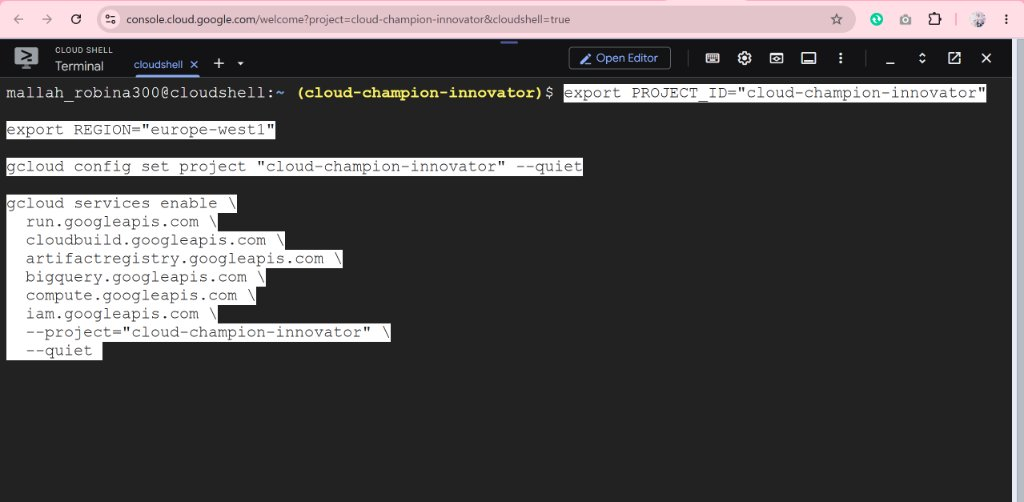
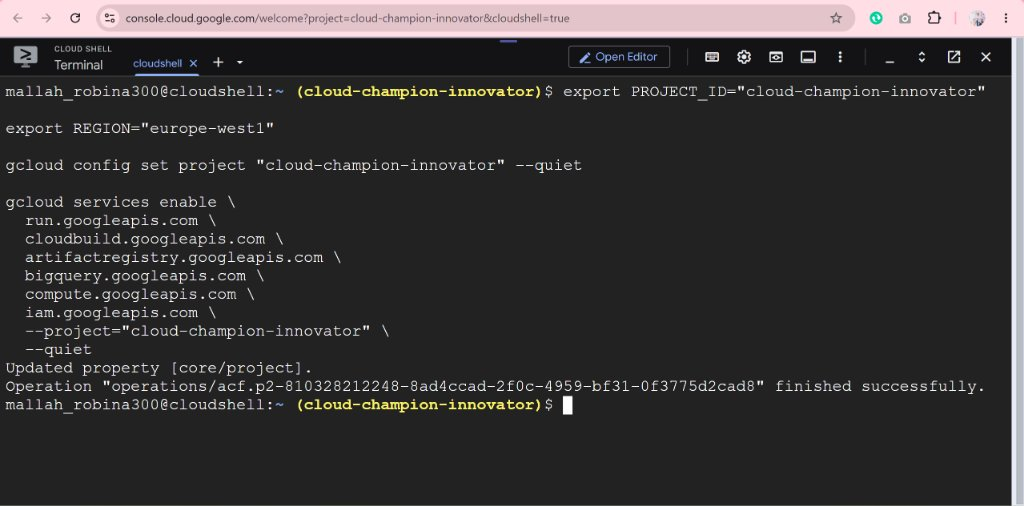
docs: switch Codelab to 100% from-scratch agy workflow + add git init Cloud Shell screenshot

diff --git a/docs/index.html b/docs/index.html
@@ -152,14 +152,23 @@ gcloud services enable \
   --project=&#34;${PROJECT_ID}&#34; \
   --quiet
 </code></pre>
-<p class="image-container"><img alt="Enabling Sovereign RAG APIs in Cloud Shell" src="img\\1b0e94a08cde3bca.jpg"></p>
-<h2 is-upgraded>Install the Google Cloud Developer Plugin &amp; Launch Antigravity CLI</h2>
-<p>Verify that <strong>Antigravity CLI (</strong></p>
+<p class="image-container"><img alt="Enabling Sovereign RAG APIs in Cloud Shell" src="img\\bccb00d1cd31fa65.jpg"></p>
+<h2 is-upgraded>Create Your Own Fresh Project Repository &amp; Launch Antigravity CLI</h2>
+<p>Instead of cloning pre-written code, you will build your <strong>own Sovereign RAG repository from scratch</strong> using the <strong>Google Antigravity CLI (</strong></p>
 <p><strong><code>agy</code></strong></p>
-<p><strong>)</strong> is ready in your shell environment and start an interactive session:</p>
-<pre><code language="language-bash" class="language-bash">agy --help
+<p><strong>)</strong>! Create a clean directory, initialize Git, install <code>agy</code> (if not already pre-installed in Cloud Shell), and launch the interactive agent:</p>
+<pre><code language="language-bash" class="language-bash">mkdir signbridge-sovereign-rag
+cd signbridge-sovereign-rag
+git init -b main
+
+# Install Google Antigravity CLI and ensure ~/.local/bin is on PATH
+curl -fsSL https://antigravity.google/cli/install.sh | bash
+export PATH=&#34;$HOME/.local/bin:$PATH&#34;
+
+# Launch Antigravity inside your empty workspace
 agy
 </code></pre>
+<p class="image-container"><img alt="Initializing Your Fresh SignBridge Git Workspace in Cloud Shell" src="img\\c7204571c74711be.jpg"></p>
 <aside class="special"><p><strong>Tip:</strong> Inside the <code>agy</code> terminal interface, you can type <code>/help</code> at any time to inspect built-in slash commands such as <code>/grill-me</code>, <code>/plan</code>, and <code>/compact</code>.</p>
 </aside>
 
@@ -201,14 +210,20 @@ Interview me on authentication boundaries, cold-start mitigation, and BigQuery s
     
       <google-codelab-step label="Generate the RAG Application" duration="6">
         <p class="image-container"><img alt="SignBridge Sovereign RAG Hero" src="img\\835f46d24584b384.jpg"></p>
-<p>Clone or generate the <code>signbridge-sovereign-rag-agy</code> workspace and explore the four core modules:</p>
-<pre><code language="language-bash" class="language-bash">git clone https://github.com/RobinaMirbahar/signbridge-sovereign-rag-agy.git
-cd signbridge-sovereign-rag-agy
-chmod +x setup_env.sh embedding_model/cloud_run.sh llm/cloud_run.sh orchestration/cloud_run.sh cleanup.sh
+<p>Once you are happy with the Implementation Plan produced during <code>/grill-me</code>, instruct <strong>Antigravity (</strong></p>
+<p><strong><code>agy</code></strong></p>
+<p><strong>)</strong> to generate your complete application <strong>from scratch</strong> inside your <code>signbridge-sovereign-rag</code> folder:</p>
+<pre><code language="language-text" class="language-text">Proceed with the implementation plan and scaffold the complete SignBridge Sovereign Sign-Language RAG repository from scratch in this directory:
+1. vector_store/: BigQuery Vector Search DDL, COSINE VECTOR_SEARCH query helper, init_db.py, and an 8-entry ASL &amp; PSL broadcast/corporate sign lexicon JSON (covering breaking flood news tickers, embargoed Q3 corporate earnings &amp; M&amp;A town halls, 150 bps financial TV desks, &#34;off the record&#34; press idioms, and clinical/ADA protocols).
+2. embedding_model/: Cloud Run Dockerfile + FastAPI service baking in EmbeddingGemma 2 via Ollama (/embed returning 768-d vectors) + cloud_run.sh (--no-allow-unauthenticated).
+3. llm/: Cloud Run Dockerfile baking in open-weights Gemma 4 via Ollama + cloud_run.sh that checks regional NVIDIA_L4 GPU quota and deploys with --gpu=1 --gpu-type=nvidia-l4 (or falls back to --cpu=8 --memory=16Gi when GPU quota is 0).
+4. orchestration/: FastAPI backend (/api/compare, /api/corpus, /health) + colorful Side-by-Side Web UI comparing Baseline Ungrounded LLM vs. Sovereign BigQuery-Grounded SignBridge + root Dockerfile + cloud_run.sh.
+5. tests/test_signbridge.py (automated pytest suite) and cleanup.sh for tearing down Cloud Run &amp; BigQuery resources.
 </code></pre>
-<h2 is-upgraded>Explore the Generated Codebase</h2>
+<h2 is-upgraded>Explore Your Newly Generated Codebase</h2>
+<p>Verify the modular directory tree Antigravity created in your workspace:</p>
 <ol type="1">
-<li><strong>Broadcast &amp; Corporate Sign Corpus (</strong><strong><code>vector_store/sign_lexicon_corpus.json</code></strong><strong>):</strong> Contains curated ASL &amp; PSL entries covering breaking flood tickers (<code>SL-NEWS-001</code>), embargoed Q3 earnings &amp; M&amp;A town halls (<code>SL-CORP-002</code>), Central Bank 150 bps rate cuts (<code>SL-MEDIA-003</code>), press-room <em>&#34;off the record&#34;</em> idioms (<code>SL-MEDIA-004</code>), and HIPAA/ADA protocols.</li>
+<li><strong>Broadcast &amp; Corporate Sign Corpus (</strong><strong><code>vector_store/sign_lexicon_corpus.json</code></strong><strong>):</strong> Curated ASL &amp; PSL entries covering breaking flood tickers, embargoed Q3 earnings &amp; M&amp;A town halls, Central Bank <code>150 bps</code> rate cuts, and press-room <em>&#34;off the record&#34;</em> idioms.</li>
 <li><strong>BigQuery Vector Search Query (</strong><strong><code>vector_store/init_db.py</code></strong><strong>):</strong> Uses native <code>VECTOR_SEARCH</code> with <code>COSINE</code> distance: <pre><code language="language-sql" class="language-sql">SELECT base.doc_id, base.verified_gloss, base.non_manual_markers, distance
 FROM VECTOR_SEARCH(
   TABLE `PROJECT.signbridge_sovereign_rag.sign_lexicon_embeddings`,
@@ -220,11 +235,16 @@ FROM VECTOR_SEARCH(
 ORDER BY distance ASC;
 </code></pre>
 </li>
-<li><strong>Orchestrator (</strong><strong><code>orchestration/app.py</code></strong><strong>):</strong> Queries both an ungrounded prompt and a BigQuery-grounded prompt in parallel so producers and interpreters can visually verify why grounding prevents broadcast errors.</li>
+<li><strong>Orchestrator (</strong><strong><code>orchestration/app.py</code></strong><strong>):</strong> Queries both an ungrounded prompt and a BigQuery-grounded prompt in parallel so broadcast producers and interpreters can visually verify why grounding prevents live-air errors.</li>
 </ol>
-<h2 is-upgraded>Run Local Automated Verification First</h2>
-<p>Before deploying to Cloud Run, run the automated <code>pytest</code> verification suite:</p>
-<pre><code language="language-bash" class="language-bash">uv run --with pytest --with fastapi --with httpx pytest tests/test_signbridge.py -v
+<h2 is-upgraded>Run Automated Verification &amp; Optional Push to Your Own GitHub Repo</h2>
+<p>Run <code>pytest</code> locally in Cloud Shell to verify every endpoint before deploying—and optionally push your newly generated project to <strong>your own GitHub account</strong>:</p>
+<pre><code language="language-bash" class="language-bash">chmod +x embedding_model/cloud_run.sh llm/cloud_run.sh orchestration/cloud_run.sh cleanup.sh
+pytest tests/ -v
+
+# Optional: save &amp; publish your own generated repository to GitHub
+git add .
+git commit -m &#34;Build SignBridge Sovereign Sign-Language RAG from scratch with Antigravity&#34;
 </code></pre>
 
 

diff --git a/codelab/index.html b/codelab/index.html
@@ -197,8 +197,15 @@ gcloud services enable \
   --quiet</pre>
         <img src="../assets/step3_enable_apis.jpg" alt="Enabling APIs in Cloud Shell" />
 
-        <h3>Launch Google Antigravity CLI</h3>
-        <pre>agy --help
+        <h3>Create Your Own Fresh Workspace &amp; Launch Antigravity CLI</h3>
+        <pre>mkdir signbridge-sovereign-rag
+cd signbridge-sovereign-rag
+git init -b main
+
+# Install Google Antigravity CLI (if not pre-installed)
+curl -fsSL https://antigravity.google/cli/install.sh | bash
+
+# Launch Antigravity in your empty directory
 agy</pre>
         <div class="callout tip">
           <strong>Pro Tip:</strong> Inside <code>agy</code>, run <code>/help</code> to view interactive agent commands like <code>/grill-me</code> and <code>/plan</code>.
@@ -229,14 +236,20 @@ Interview me on authentication boundaries, cold-start mitigation, and BigQuery s
 
       <!-- STEP 4 -->
       <section class="step-card" data-title="Generate the RAG application" data-mins="24">
-        <h2>5. Generate the RAG application</h2>
-        <img src="../assets/hero_signbridge_sovereign_rag.jpg" alt="Robina Mirbahar — SignBridge Sovereign RAG" />
-        <pre>git clone https://github.com/RobinaMirbahar/signbridge-sovereign-rag-agy.git
-cd signbridge-sovereign-rag-agy
-chmod +x setup_env.sh embedding_model/cloud_run.sh llm/cloud_run.sh orchestration/cloud_run.sh cleanup.sh</pre>
+        <h2>5. Generate the RAG application from scratch</h2>
+        <img src="../assets/hero_signbridge_sovereign_rag.jpg" alt="SignBridge Sovereign RAG" />
+        <p>Approve the Implementation Plan inside <code>agy</code> so Antigravity generates your entire codebase from scratch in your own workspace:</p>
+        <pre>Proceed with the implementation plan and scaffold the complete SignBridge Sovereign Sign-Language RAG repository from scratch in this directory:
+- vector_store/: BigQuery VECTOR_SEARCH (COSINE) DDL, init_db.py &amp; ASL/PSL broadcast/corporate sign lexicon
+- embedding_model/: Private Cloud Run service serving EmbeddingGemma 2 (768-d)
+- llm/: Private Cloud Run service serving open-weights Gemma 4 (NVIDIA L4 GPU or 8-vCPU fallback)
+- orchestration/: FastAPI backend + colorful Side-by-Side Ungrounded vs. Grounded Web UI
+- tests/ &amp; cleanup.sh</pre>
 
-        <h3>Run Automated Verification Tests</h3>
-        <pre>uv run --with pytest --with fastapi --with httpx pytest tests/test_signbridge.py -v</pre>
+        <h3>Verify &amp; Commit to Your Own Repo</h3>
+        <pre>chmod +x embedding_model/cloud_run.sh llm/cloud_run.sh orchestration/cloud_run.sh cleanup.sh
+pytest tests/ -v
+git add . &amp;&amp; git commit -m "Generate SignBridge Sovereign RAG from scratch with Antigravity"</pre>
       </section>
 
       <!-- STEP 5 -->

diff --git a/codelab/CODELAB.md b/codelab/CODELAB.md
@@ -123,13 +123,23 @@ gcloud services enable \
 
 ![Enabling Sovereign RAG APIs in Cloud Shell](img/step3_enable_apis.jpg)
 
-### Install the Google Cloud Developer Plugin & Launch Antigravity CLI
-Verify that **Antigravity CLI (`agy`)** is ready in your shell environment and start an interactive session:
+### Create Your Own Fresh Project Repository & Launch Antigravity CLI
+Instead of cloning pre-written code, you will build your **own Sovereign RAG repository from scratch** using the **Google Antigravity CLI (`agy`)**! Create a clean directory, initialize Git, install `agy` (if not already pre-installed in Cloud Shell), and launch the interactive agent:
 
 ```bash
-agy --help
+mkdir signbridge-sovereign-rag
+cd signbridge-sovereign-rag
+git init -b main
+
+# Install Google Antigravity CLI and ensure ~/.local/bin is on PATH
+curl -fsSL https://antigravity.google/cli/install.sh | bash
+export PATH="$HOME/.local/bin:$PATH"
+
+# Launch Antigravity inside your empty workspace
 agy
 ```
+
+![Initializing Your Fresh SignBridge Git Workspace in Cloud Shell](img/step3_mkdir_git_init.jpg)
 
 > aside positive
 > **Tip:** Inside the `agy` terminal interface, you can type `/help` at any time to inspect built-in slash commands such as `/grill-me`, `/plan`, and `/compact`.
@@ -181,16 +191,21 @@ Duration: 6
 
 ![SignBridge Sovereign RAG Hero](img/hero_signbridge_sovereign_rag.jpg)
 
-Clone or generate the `signbridge-sovereign-rag-agy` workspace and explore the four core modules:
+Once you are happy with the Implementation Plan produced during `/grill-me`, instruct **Antigravity (`agy`)** to generate your complete application **from scratch** inside your `signbridge-sovereign-rag` folder:
 
-```bash
-git clone https://github.com/RobinaMirbahar/signbridge-sovereign-rag-agy.git
-cd signbridge-sovereign-rag-agy
-chmod +x setup_env.sh embedding_model/cloud_run.sh llm/cloud_run.sh orchestration/cloud_run.sh cleanup.sh
+```text
+Proceed with the implementation plan and scaffold the complete SignBridge Sovereign Sign-Language RAG repository from scratch in this directory:
+1. vector_store/: BigQuery Vector Search DDL, COSINE VECTOR_SEARCH query helper, init_db.py, and an 8-entry ASL & PSL broadcast/corporate sign lexicon JSON (covering breaking flood news tickers, embargoed Q3 corporate earnings & M&A town halls, 150 bps financial TV desks, "off the record" press idioms, and clinical/ADA protocols).
+2. embedding_model/: Cloud Run Dockerfile + FastAPI service baking in EmbeddingGemma 2 via Ollama (/embed returning 768-d vectors) + cloud_run.sh (--no-allow-unauthenticated).
+3. llm/: Cloud Run Dockerfile baking in open-weights Gemma 4 via Ollama + cloud_run.sh that checks regional NVIDIA_L4 GPU quota and deploys with --gpu=1 --gpu-type=nvidia-l4 (or falls back to --cpu=8 --memory=16Gi when GPU quota is 0).
+4. orchestration/: FastAPI backend (/api/compare, /api/corpus, /health) + colorful Side-by-Side Web UI comparing Baseline Ungrounded LLM vs. Sovereign BigQuery-Grounded SignBridge + root Dockerfile + cloud_run.sh.
+5. tests/test_signbridge.py (automated pytest suite) and cleanup.sh for tearing down Cloud Run & BigQuery resources.
 ```
 
-### Explore the Generated Codebase
-1. **Broadcast & Corporate Sign Corpus (`vector_store/sign_lexicon_corpus.json`):** Contains curated ASL & PSL entries covering breaking flood tickers (`SL-NEWS-001`), embargoed Q3 earnings & M&A town halls (`SL-CORP-002`), Central Bank 150 bps rate cuts (`SL-MEDIA-003`), press-room *"off the record"* idioms (`SL-MEDIA-004`), and HIPAA/ADA protocols.
+### Explore Your Newly Generated Codebase
+Verify the modular directory tree Antigravity created in your workspace:
+
+1. **Broadcast & Corporate Sign Corpus (`vector_store/sign_lexicon_corpus.json`):** Curated ASL & PSL entries covering breaking flood tickers, embargoed Q3 earnings & M&A town halls, Central Bank `150 bps` rate cuts, and press-room *"off the record"* idioms.
 2. **BigQuery Vector Search Query (`vector_store/init_db.py`):** Uses native `VECTOR_SEARCH` with `COSINE` distance:
    ```sql
    SELECT base.doc_id, base.verified_gloss, base.non_manual_markers, distance
@@ -203,13 +218,18 @@ chmod +x setup_env.sh embedding_model/cloud_run.sh llm/cloud_run.sh orchestratio
    )
    ORDER BY distance ASC;
    ```
-3. **Orchestrator (`orchestration/app.py`):** Queries both an ungrounded prompt and a BigQuery-grounded prompt in parallel so producers and interpreters can visually verify why grounding prevents broadcast errors.
+3. **Orchestrator (`orchestration/app.py`):** Queries both an ungrounded prompt and a BigQuery-grounded prompt in parallel so broadcast producers and interpreters can visually verify why grounding prevents live-air errors.
 
-### Run Local Automated Verification First
-Before deploying to Cloud Run, run the automated `pytest` verification suite:
+### Run Automated Verification & Optional Push to Your Own GitHub Repo
+Run `pytest` locally in Cloud Shell to verify every endpoint before deploying—and optionally push your newly generated project to **your own GitHub account**:
 
 ```bash
-uv run --with pytest --with fastapi --with httpx pytest tests/test_signbridge.py -v
+chmod +x embedding_model/cloud_run.sh llm/cloud_run.sh orchestration/cloud_run.sh cleanup.sh
+pytest tests/ -v
+
+# Optional: save & publish your own generated repository to GitHub
+git add .
+git commit -m "Build SignBridge Sovereign Sign-Language RAG from scratch with Antigravity"
 ```
 
 ---
